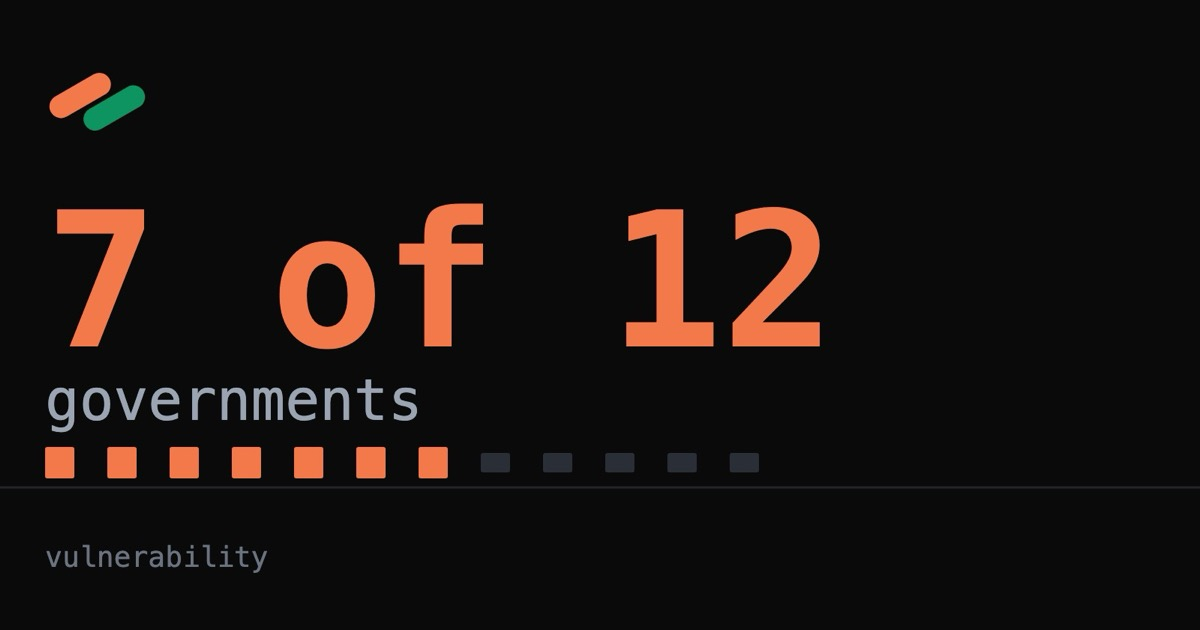
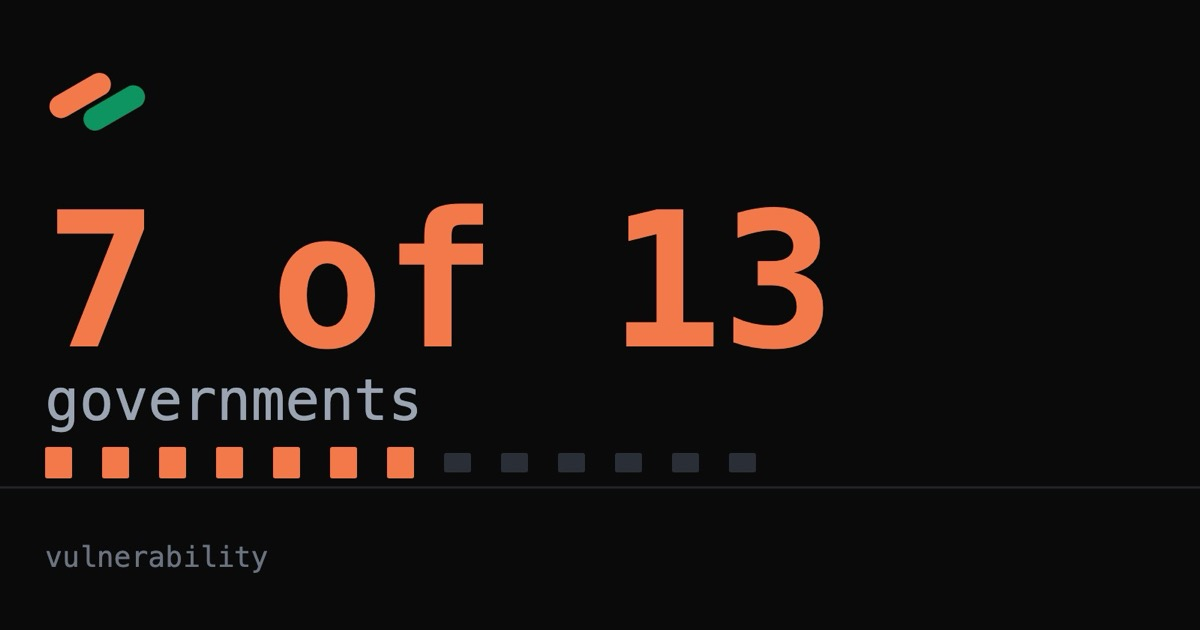
content(articles): recount as 13 credentials, not 12 auth tokens
Two review threads caught a real internal contradiction, and fixing it
properly meant recounting rather than rewording.

The article called all 12 "authentication tokens" while its own nuance
section said betagouv_sante-psy stores an XSRF token, which is explicitly
NOT a bearer credential. And it claimed "all seven false positives fail
the same way — the rule matched an identifier name", which is untrue of
twilio: that one stores a real app passcode. It is a credential the rule
had no business calling a JWT, not a name match.

Three honest buckets, and they sum to the 19 flagged:

  11  bearer tokens
   2  other credentials (betagouv_sante-psy XSRF, twilio passcode)
   6  not credentials at all — every one a name match
  ---
  19

So: 13 of 19 store a credential (68% precision, not 63%), 11 of those are
bearer tokens, and 7 of the 13 are governments. The government
concentration — the finding the article exists for — is unchanged.

Title moves from "12 Repos Keep an Auth Token" to "13 Repos Keep a
Credential", because the distinction is the article's own point: counting
an XSRF token and a passcode as bearer tokens would be technically
defensible and substantively wrong.

Cover re-rendered 7-of-12 -> 7-of-13.

sdlc-chain-lock: 54 passed. publish-gate: premise holds, word count in
range, only the cover 404 pending this deploy.

Changed region(s): [[0.0617, 0.6937, 0.5858, 0.7841], [0.6167, 0.3619, 0.7092, 0.5429], [0.6167, 0.5429, 0.6783, 0.573]]

diff --git a/apps/blog/content/articles/token-in-localstorage-field-study.md b/apps/blog/content/articles/token-in-localstorage-field-study.md
@@ -1,5 +1,5 @@
 ---
-title: "12 Repos Keep an Auth Token in Web Storage. Seven Are Governments."
+title: "13 Repos Keep a Credential in Web Storage. Seven Are Governments."
 description: "A field study of 1,423 storage call sites in 189 public repositories. The practice is rarer than the argument about it, and it concentrates somewhere specific."
 slug: "token-in-localstorage-field-study"
 canonical_url: "https://ofriperetz.dev/articles/token-in-localstorage-field-study"
@@ -34,7 +34,7 @@ series: null
 
 258,117 source files. **1,423 touch web storage** — that is the denominator, found by reading source text before any rule ran. They live in 189 public repositories.
 
-Twelve of those repositories put an authentication token in storage. **Seven of the twelve are government digital services.**
+Thirteen of those repositories put a credential in storage — eleven of them a bearer token. **Seven of the thirteen are government digital services.**
 
 | | |
 |---|---|
@@ -45,27 +45,27 @@ Twelve of those repositories put an authentication token in storage. **Seven of 
 | France · `betagouv` ×2 | `xsrfToken`, `NATIVE_TOKEN_KEY` |
 | British Columbia · `sso-requests` | `sessionStorage.setItem(TOKEN_SESSION, …)` |
 
-The other five are `cloudflare-os`, `headlamp`, `mozilla_fxa`, `solid-playground` and `wix_skills`.
+The non-government six are `cloudflare-os`, `headlamp`, `mozilla_fxa`, `solid-playground`, `wix_skills` and a Twilio app that stores a passcode.
 
 ## The rate is the boring half {#rate}
 
-Twelve out of 189 is about 6%. If you came expecting an epidemic, there isn't one — most code touching web storage keeps credentials out of it.
+Thirteen out of 189 is about 7%. If you came expecting an epidemic, there isn't one — most code touching web storage keeps credentials out of it.
 
-What makes six percent interesting is *where* it lands. Public-sector frontends are built by rotating contractors against procurement deadlines, and they inherit whatever the OIDC tutorial did. The tutorial put the token in `localStorage`.
+What makes seven percent interesting is *where* it lands. Public-sector frontends are built by rotating contractors against procurement deadlines, and they inherit whatever the OIDC tutorial did. The tutorial put the token in `localStorage`.
 
-That is a mechanism, not an accusation. Two of the seven — Helsinki and the UK ONS — store a **refresh** token beside the access token, and that is the part that matters: an access token expires in minutes, a refresh token is a long-lived credential sitting where any injected script can read it synchronously. The five non-government hits are developer tools and internal consoles, where the threat model is genuinely different.
+That is a mechanism, not an accusation. Two of the seven — Helsinki and the UK ONS — store a **refresh** token beside the access token, and that is the part that matters: an access token expires in minutes, a refresh token is a long-lived credential sitting where any injected script can read it synchronously. The six non-government hits are developer tools, playgrounds and internal consoles, where the threat model is genuinely different.
 
-## Two of the twelve are not the mistake you think {#nuance}
+## Two of the thirteen are not the mistake you think {#nuance}
 
 Reading the code changes the verdict twice.
 
-`bcgov_sso-requests` uses `sessionStorage`, not `localStorage` — same XSS exposure, but the token dies with the tab instead of persisting. `betagouv_sante-psy` stores an **XSRF** token, which is a different risk class entirely: it is meant to be readable by your own page, and it is not a bearer credential.
+`bcgov_sso-requests` uses `sessionStorage`, not `localStorage` — same XSS exposure, but the token dies with the tab instead of persisting. `betagouv_sante-psy` stores an **XSRF** token, which is a different risk class entirely: it is meant to be readable by your own page, and it is not a bearer credential. That is why the count above says *credential* and not *auth token*: eleven of the thirteen are bearer tokens, and these two are not.
 
-Counting both as "token in localStorage" would have been technically defensible and substantively wrong.
+Counting them all as "a JWT in localStorage" would have been technically defensible and substantively wrong.
 
-## My own rule is right 12 times out of 19 {#precision}
+## My own rule is right 13 times out of 19 {#precision}
 
-`no-jwt-in-storage` flagged 19 repositories. I read all 39 files. Seven repos are false positives, and all seven fail the same way — the rule matched an identifier *name* rather than proving a token:
+`no-jwt-in-storage` flagged 19 repositories. I read all 39 files. Six repos are false positives, and all six fail the same way — the rule matched an identifier *name* rather than proving a credential:
 
 ```js
 localStorage.setItem("sessionId", sessionId);      // a demo session id
@@ -73,9 +73,9 @@ sessionStorage.setItem('app_authServer', config);  // a server URL
 localStorage.setItem(AUTH_STATUS_KEY, 'success');  // the string "success"
 ```
 
-Also flagged: a co-browse session descriptor, a telemetry session, a sandbox id, and an example `user` object. That is **63% precision** on real source.
+Also flagged: a co-browse session descriptor, a telemetry session, a sandbox id, and an example `user` object. That is **68% precision** on real source.
 
-I am reporting it because the twelve are only believable if you know what the instrument does when it is wrong. A field study that publishes its hit rate and not its miss rate is a marketing page.
+I am reporting it because the thirteen are only believable if you know what the instrument does when it is wrong. A field study that publishes its hit rate and not its miss rate is a marketing page.
 
 One more, worth its own line: `no-cookie-auth-tokens` fired **zero** times across all 1,423 files. A rule that never fires in a corpus this size is telling you about the rule, not the corpus.
 
@@ -94,7 +94,7 @@ export default [
 ];
 ```
 
-Expect to read the hits rather than trust them — [ground truth is the hard half](https://ofriperetz.dev/articles/ground-truth-in-security-testing) of any audit like this. The corpus here is an adoption scan, not a random draw from GitHub, so "7 of 12" describes what I looked at. Point it at a different corpus and the mix will move.
+Expect to read the hits rather than trust them — [ground truth is the hard half](https://ofriperetz.dev/articles/ground-truth-in-security-testing) of any audit like this. The corpus here is an adoption scan, not a random draw from GitHub, so "7 of 13" describes what I looked at. Point it at a different corpus and the mix will move.
 
 ---
 

diff --git a/sdlc/spec/token-in-localstorage-field-study.md b/sdlc/spec/token-in-localstorage-field-study.md
@@ -10,11 +10,11 @@ gathered: 2026-09-14
 
 The localStorage-vs-cookie argument is the one frontend developers have with
 each other most often and measure least. Across 189 public repositories that
-touch web storage, **12 put an authentication token in it — and 7 of those 12
-are government digital services.**
+touch web storage, **13 put a credential in it (11 of them bearer tokens) — and 7 of
+those 13 are government digital services.**
 
 Two numbers matter more than the headline: the practice is **rarer** than the
-discourse implies, and the linter that found it is **right 12 times out of 19**.
+discourse implies, and the linter that found it is **right 13 times out of 19**.
 
 ## Ground truth
 
@@ -32,12 +32,12 @@ discourse implies, and the linter that found it is **right 12 times out of 19**.
 | `no-cookie-auth-tokens` — findings              | 0                    | same run                                                     | browser-security 2.1.5 / eslint 9.39.5 | 2026-09-14 |
 | parse errors                                    | 16                   | same run → `parseErrors`                                     | browser-security 2.1.5 / eslint 9.39.5 | 2026-09-14 |
 | duplicate clones among the 19 flagged repos     | 0                    | `dedupe.ts` content fingerprint                              | browser-security 2.1.5 / eslint 9.39.5 | 2026-09-14 |
-| **flagged repos that really store a token**     | **12 of 19**         | manual read of all 39 files, table below                     | browser-security 2.1.5 / eslint 9.39.5 | 2026-09-14 |
-| of those 12, government digital services        | **7**                | table below                                                  | browser-security 2.1.5 / eslint 9.39.5 | 2026-09-14 |
+| **flagged repos that really store a credential** | **13 of 19**         | manual read of all 39 files, table below                     | browser-security 2.1.5 / eslint 9.39.5 | 2026-09-14 |
+| of those 13, government digital services        | **7**                | table below                                                  | browser-security 2.1.5 / eslint 9.39.5 | 2026-09-14 |
 
 ## Every finding, read
 
-**True — an authentication credential in web storage (12 repos):**
+**True — a credential in web storage (13 repos; 11 bearer tokens):**
 
 | repo | evidence | gov |
 | --- | --- | --- |
@@ -53,9 +53,10 @@ discourse implies, and the linter that found it is **right 12 times out of 19**.
 | mozilla_fxa | `localStorage.setItem(NAMESPACE, …)` in `lib/session.js` | |
 | solidjs_solid-playground | `localStorage.setItem('token', x)` | |
 | wix_skills | `window.localStorage.setItem(TOKEN_STORAGE_KEY, …)` | |
+| twilio_twilio-voice-notification-app | `sessionStorage.setItem(SESSION_STORAGE_PASSCODE_KEY, passcode)` — a credential, not a bearer token | |
 
-**False — flagged, but not a credential (7 repos).** Every one is the rule
-matching an *identifier name* rather than proving a token:
+**False — flagged, but not a credential (6 repos).** Every one is the rule
+matching an *identifier name* rather than proving a credential:
 
 | repo | what is actually stored |
 | --- | --- |
@@ -65,9 +66,8 @@ matching an *identifier name* rather than proving a token:
 | open-telemetry_opentelemetry-js | a telemetry session in `LocalStorageSessionStore` |
 | TanStack_router | an example `user` object in two auth demos |
 | vercel_examples | `{sandboxId, timestamp}` |
-| twilio_twilio-voice-notification-app | an app passcode — a credential, but not a token |
 
-That is **12/19 = 63% precision** for `no-jwt-in-storage` on real source, and the
+That is **13/19 = 68% precision** for `no-jwt-in-storage` on real source, and the
 misses are the name-inference class: `sessionId`, `authServer`, `AUTH_STATUS_KEY`.
 
 ## Instrument defect found and fixed
@@ -85,11 +85,11 @@ absence.**
 
 ## What this changes in the article
 
-**Lead with the government count, not the rate.** 12 of 189 is ~6%, which reads
-as "rare, move on". 7 of the 12 being public-sector services is the fact that
+**Lead with the government count, not the rate.** 13 of 189 is ~7%, which reads
+as "rare, move on". 7 of the 13 being public-sector services is the fact that
 makes a reader check their own repo.
 
-**Publish the 63% precision.** The article is evidence that our own rule
+**Publish the 68% precision.** The article is evidence that our own rule
 over-reports, and saying so is what makes the 12 believable. Per the dogfooding
 doctrine, a measured loss is published, not buried.
 
